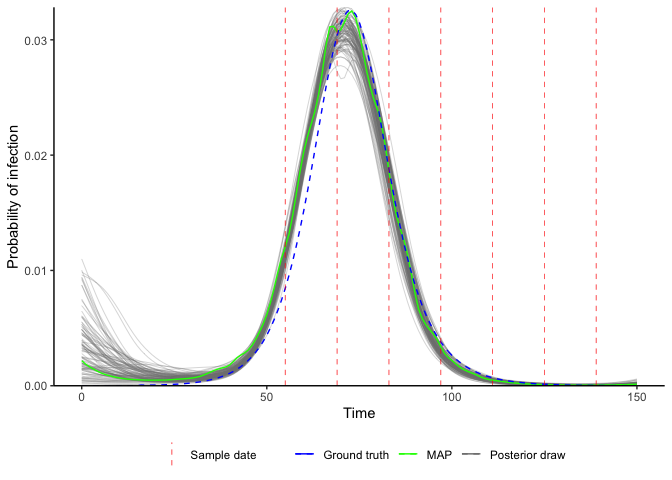
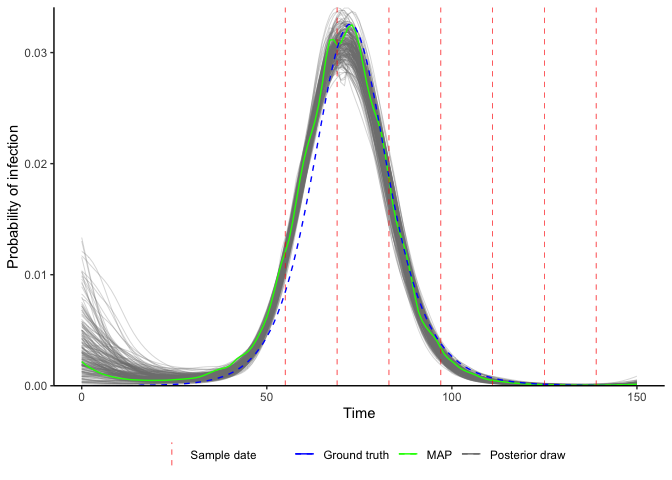
updated example ct data

diff --git a/README.md b/README.md
@@ -167,7 +167,7 @@ check for convergence, as in the vignette.
 chain <- read.csv("example_univariate_chain.csv")
 chain <- chain[chain$sampno > mcmc_pars["adaptive_period"],]
 data(example_seir_incidence)
-predictions <- plot_prob_infection(chain,nsamps=100, INCIDENCE_FUNC=gaussian_process_model,
+predictions <- plot_prob_infection(chain,nsamps=200, INCIDENCE_FUNC=gaussian_process_model,
                                   solve_times=0:max(example_ct_data$t),obs_dat=example_ct_data,
                                   true_prob_infection=example_seir_incidence,smooth=TRUE)
 p_incidence_prediction <- predictions$plot + scale_x_continuous(limits=c(0,150))
